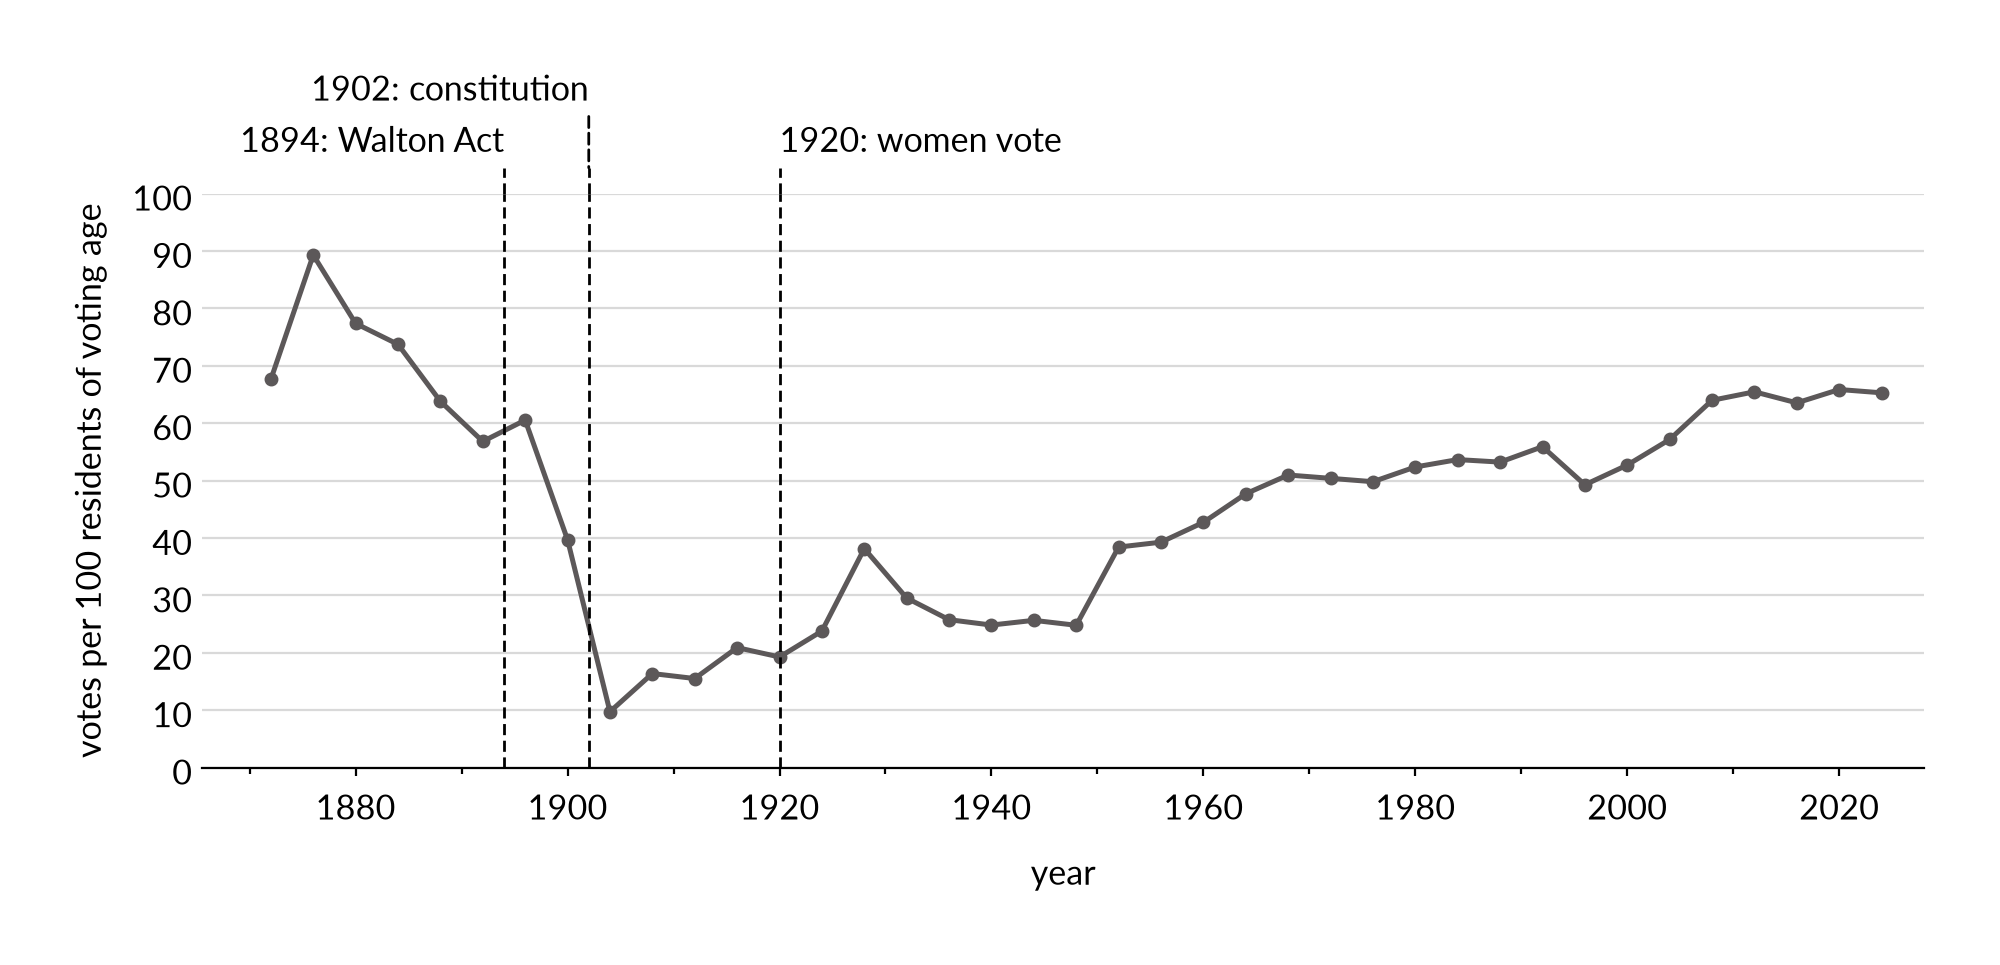
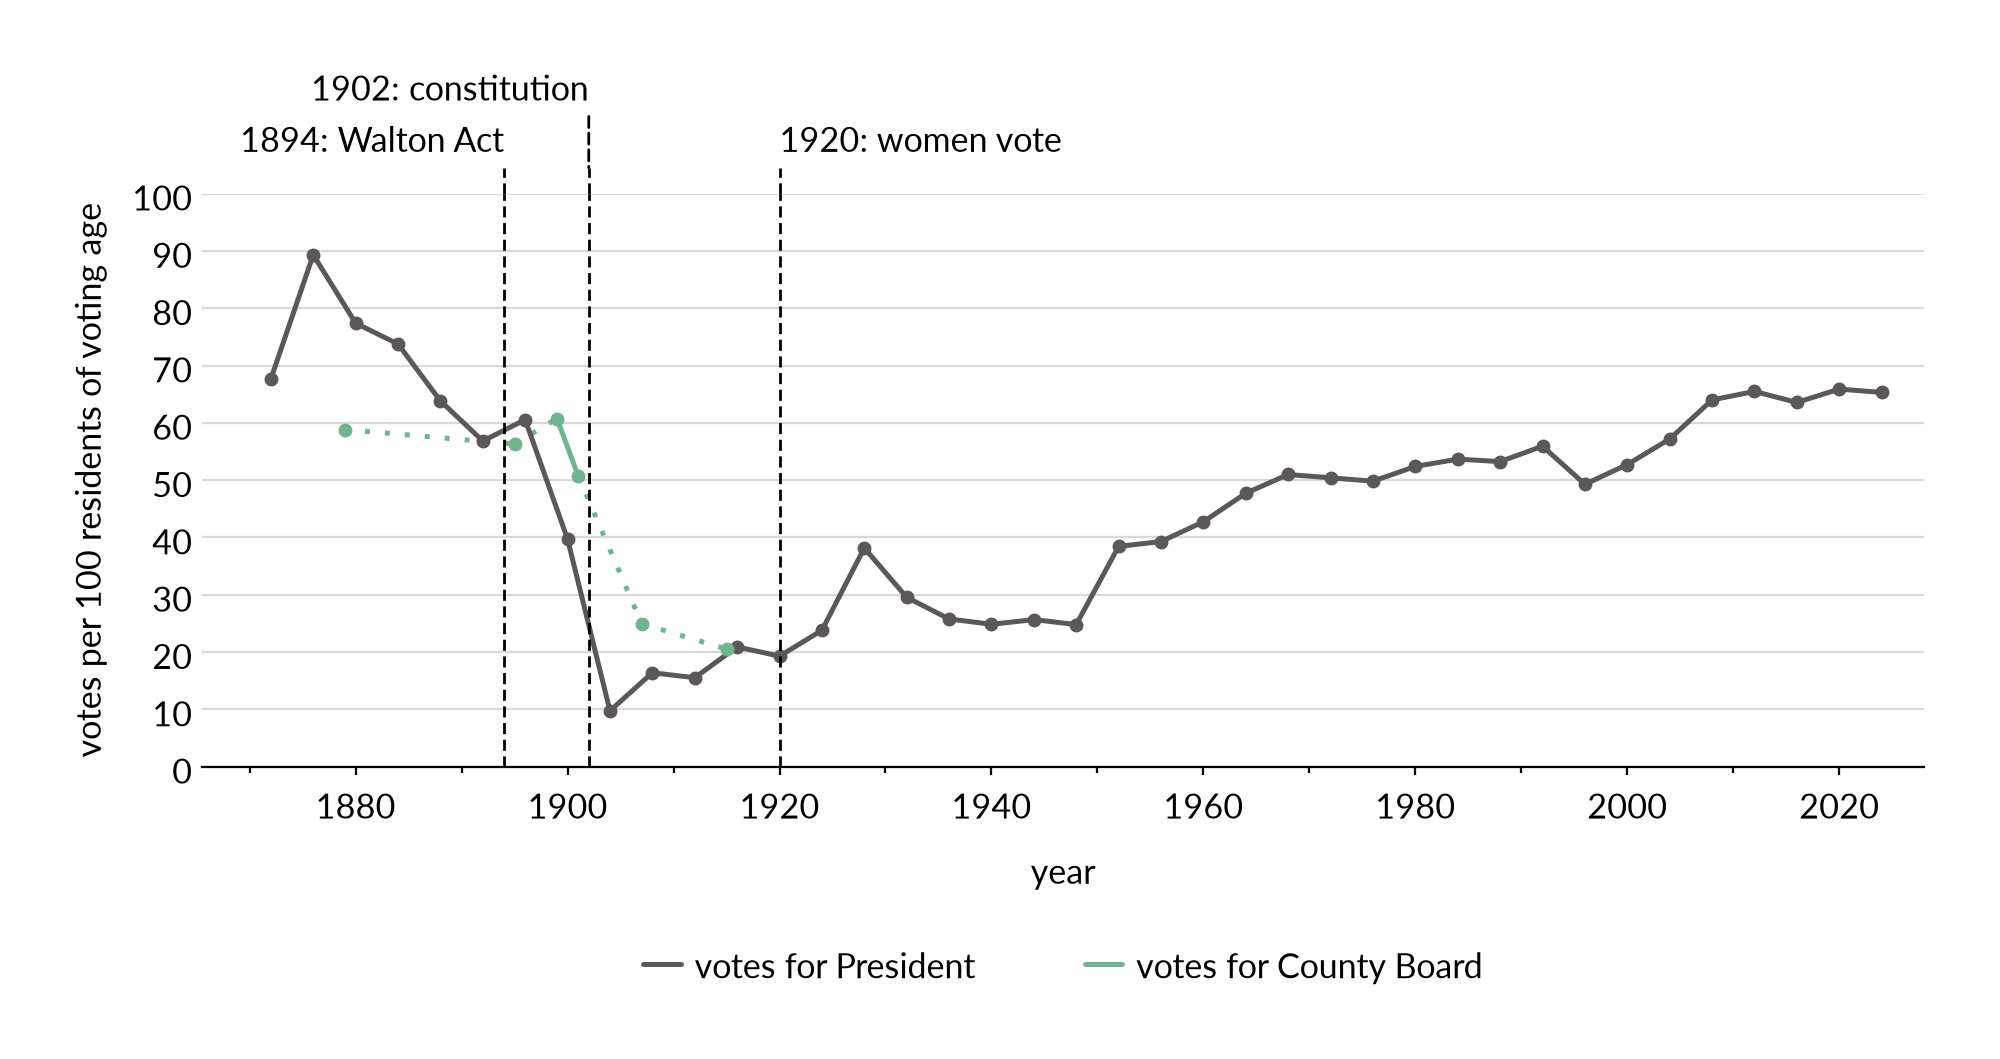
The presidential turnout figure carries the Board's vote before 1932 as a second line, drawn only where every district was contested and bridged by a dotted segment across elections left out; the Gazette's district counts for 1870-1919 come with it

diff --git a/code/clean/elections_turnout.py b/code/clean/elections_turnout.py
@@ -101,16 +101,18 @@ def board_votes(roster) -> pd.DataFrame:
 
 
 def board_districts() -> pd.DataFrame:
-    """1870-1915: the November elections with a count for every candidate in
-    all three districts, from the Gazette's own returns (candidates_gazette);
-    1907 and 1915 agree with O'Leary's to the vote, so nothing rests on him
-    here (docs/elections.md, "Which years are not the county's vote")."""
+    """1870-1915: the elections, May or November, with a count for every
+    candidate in all three districts, from the Gazette's own returns
+    (candidates_gazette); 1907 and 1915 agree with O'Leary's to the vote, so
+    nothing rests on him here (docs/elections.md, "Which years are not the
+    county's vote")."""
     g = paths.typed(paths.built("candidates_gazette"))
-    g = g[g.election_date.str[5:7] == "11"]
     rows = []
     for year, h in g.groupby("year"):
         if h.district.nunique() != 3 or h.votes.isna().any():
             continue
+        if h.groupby("district").votes.count().min() < 2:
+            continue    # an unopposed seat counts who bothered, not who could vote
         rows.append({"year": int(year), "board_votes": int(h.votes.sum()), "board_seats": 3,
                      "board_complete": True,
                      "board_source": f"{h.source.iloc[0]} p.{h.page.iloc[0]}",
@@ -191,6 +193,10 @@ def build() -> pd.DataFrame:
     assert years == [1931, 1935, 1939] + list(range(1940, members_terms.PRESENT)), \
         f"a November Board contest is missing or extra: {years}"
     board["board_voters"] = (board.board_votes / board.board_seats).round().astype(int)
+    # A district seat is its own contest and a voter votes in one district:
+    # every vote is a voter, whatever the three contests add up to.
+    district_era = board.year < 1931
+    board.loc[district_era, "board_voters"] = board.board_votes[district_era]
 
     d = board
     for part in (registration(), voting_age(), voting_age_21(), president()):

diff --git a/code/analysis/elections_turnout_president.py b/code/analysis/elections_turnout_president.py
@@ -1,7 +1,8 @@
 """Votes for President per 100 residents of voting age, 1872 to the present
 -> figures/elections_turnout_president.pdf, .png
 
-One grey line, with the Walton Act of 1894, the constitution of 1902 and
+One grey line, with a line for the district-era Board elections whose
+three districts were all contested, with the Walton Act of 1894, the constitution of 1902 and
 women voting in 1920 ruled off. Read by Race's "A Shrinking Electorate,"
 whose point is the collapse after 1894 and 1902 and the long recovery. The
 denominator is code/analysis/elections.py's, which body_text_numbers reads
@@ -26,9 +27,22 @@ for profile in style.PROFILES:
     label, colour = style.PRESIDENT
     charts.lines(ax, president_rate.index.to_numpy(), {label: (president_rate.to_numpy(), colour)})
 
+    # Every district-era election the roster names, so a line is solid between
+    # consecutive elections both drawn and dotted across one that is not.
+    roster = paths.read("members")
+    held = roster[(roster.district != "at large") & (roster.start_year < style.EXPANSION_YEAR)]
+    elections_held = sorted(held.election_year.dropna().astype(int).unique())
+    district_era = d[d.year < 1931].dropna(subset=["board_voters"]).set_index("year").board_voters
+    board_rate = per_100_voting_age(district_era, adults, estimate).reindex(elections_held)
+    board_label, board_colour = style.BOARD_DISTRICTS
+    charts.lines(ax, board_rate.index.to_numpy(), {board_label: (board_rate.to_numpy(), board_colour)},
+                 bridge=True)
+
     charts.counts(ax, 100, 10, label="votes per 100 residents of voting age")
     charts.years(ax, 1870, 2020, step=20, label="year", minor=10, through=2028)
     for year, note, ha, tier in style.ELECTORATE_RULES:
         charts.rule(ax, year, note, ha=ha, tier=tier)
 
+    charts.legend(fig, {label: colour, board_label: board_colour},
+                  lines=[label, board_label])
     paths.save(fig, profile)

diff --git a/paper/1_history/representation_race.tex b/paper/1_history/representation_race.tex
@@ -156,7 +156,10 @@ is that electorate, before the laws of 1894 and 1902 took it apart.
   \includegraphics[width=\textwidth]{elections_turnout_president.pdf}
   \smallskip
   \figurenotes{Notes: This graph plots votes cast for President per 100 residents of
-  voting age in Arlington County. Residents of voting age are drawn from US census data, with a straight
+  voting age in Arlington County, and, before 1932, votes cast for County Board in
+  the elections where every district had two or more candidates, since an
+  unopposed seat counts who chose to vote and not who could. A dotted segment
+  crosses an election left out. Residents of voting age are drawn from US census data, with a straight
   line between censuses. They include men aged 21 and older through 1916; all
   residents 21 and older from 1920, following the 19th Amendment; and all
   residents 18 and older from 1971, following the 26th Amendment. They include

diff --git a/style/style.py b/style/style.py
@@ -202,6 +202,9 @@ PRESIDENT = ("votes for President", DARK)
 # Colour.
 BOARD_VOTES = "votes for County Board"
 BOARD_FAMILY = dict(zip(("president", "midterm", "governor"), reversed(line_ramp(3))))
+# The Board's vote before 1932, three district contests added up, in the
+# presidential-year shade, since the district years are not a cycle.
+BOARD_DISTRICTS = (BOARD_VOTES, line_ramp(3)[0])
 BOARD_CYCLES = {"president": "presidential year", "midterm": "midterm year",
                 "governor": "governor's year", "delegates": "House of Delegates year"}
 # The dated changes to who could vote that the turnout figure rules off:

diff --git a/docs/figures.md b/docs/figures.md
@@ -723,6 +723,15 @@ there the labels can be shortened and here the years cannot.
   Electorate" reads: its point is the collapse after 1894 and 1902 and the
   long recovery, and the 1876 point, the left edge, is its baseline before
   the collapse.
+  The presidential figure also carries the Board's vote before 1932, the three
+  district contests added up, as a second line in the Board's colour: drawn
+  only where every district had two or more candidates, since an unopposed seat
+  counts who bothered to vote and not how many could, which is how 1874, 1875,
+  1877 and 1893 drop out and 1879, 1895, 1899, 1901, 1907 and 1915 stay. The
+  line is solid between consecutive elections both drawn and dotted across one
+  that is not, the roster's schedule of elections deciding which are
+  consecutive, as `charts.lines(bridge=True)` does elsewhere (Sally, 9 October
+  2026). The legend names it "votes for County Board", not by district.
 - **elections_turnout_board.** One panel, 1932 to the present, the other half
   of the same cut. The presidential vote is one grey line throughout and the
   thread of the figure; the Board's vote is `style.BOARD_FAMILY`, three
@@ -737,9 +746,7 @@ there the labels can be shortened and here the years cannot.
   voters; from 1943 that is every House of Delegates year, and the caption
   says so. No rule marks 1966: this section is not making a voter-suppression
   claim, and the poll tax, like the Walton Act, the constitution and women
-  voting, is the president figure's (Sally, 7 October 2026). The five
-  district-era squares the pre-1932 figure once added up by district are the
-  president figure's too. The legend is flat, `charts.legend()` with
+  voting, is the president figure's (Sally, 7 October 2026).  The legend is flat, `charts.legend()` with
   `lines=`, one row of four: the president line and the three Board shades
   each named for what it is, "Board, presidential year" and so on, rather
   than stacked under a heading, which read as a lot of white space for four
